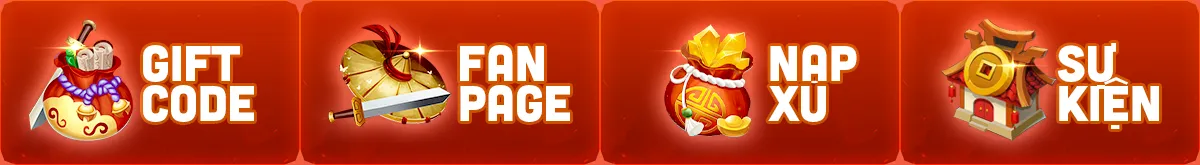
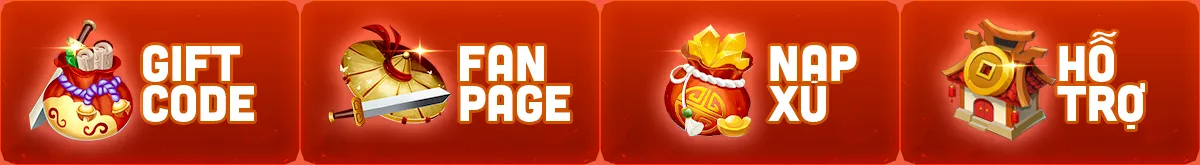
Update

Changed region(s): [[0.8633, 0.1818, 0.9867, 0.8182]]

diff --git a/Homepage/css/wstyle.min.css b/Homepage/css/wstyle.min.css
@@ -1,1 +1,1 @@
-body{background:url("../images/bg-small.webp") no-repeat center top;background-size:100vw auto;background-color:var(--w-bg-color);overflow-x:hidden}.wcontainer{width:90%;margin-left:auto;margin-right:auto;overflow:hidden;max-width:1170px}.page-wrapper{width:100%;max-width:1920px}.text-vgp{color:#f60}.bg-primary{background-color:var(--w-primary)}.bg-secondary{background-color:var(--w-secondary)}.text-primary{color:var(--w-primary)}.text-secondary{color:var(--w-secondary)}.w-image-block,.w-image-ratio{max-width:100%;display:block}.w-image-ratio{position:relative;overflow:hidden}.w-image-ratio>.content{position:absolute;top:50%;left:50%;width:100%;height:100%;transform:translate(-50%, -50%);display:flex;justify-content:center;align-items:center}.w-image-inline{max-width:100%;display:inline-block}.w-image-button>img,.w-image-ratio>img,.w-image-inline>img,.w-image-block>img{display:block;width:100%;height:auto}.w-image-button{max-width:100%;display:block;border:none;padding:0 !important}.layout{grid-template-areas:"download download button button button button button button" "download download newsboard newsboard newsboard support support support" "feature feature feature feature news news news news"}.block-download{grid-area:download}.block-button{grid-area:button}.block-support{grid-area:support}.newsboard{grid-area:newsboard}.block-news{grid-area:news}.block-feature{grid-area:feature}.block-18{background:rgba(0,0,0,0) url("../images/img-pg18.webp") no-repeat center bottom scroll;background-size:100% 100%;aspect-ratio:585/274}.block-18>div{display:grid;grid-template-columns:1fr 1fr;height:33%;width:100%}.block-18>div a{text-indent:-9999px;display:block}#block-001{background-size:100% auto}.block-download-inside{background:url("../images/block-download.webp") no-repeat scroll;background-size:cover;border-radius:1em;position:absolute;width:calc(100% - .69em);height:82%;bottom:0;color:#fff;z-index:0}.block-download-inside>.wrapper a{font-size:1.25em;display:flex;justify-content:start;align-items:center;line-height:1;padding:0 0 0 2.5em;transition:all .36s ease;border-top:1px solid var(--w-border)}.block-download-inside>.wrapper a:nth-child(1){border:none}.block-download-inside>.wrapper a:hover{filter:drop-shadow(0 0 1em rgb(255, 255, 255))}.block-button a{background:rgba(0,0,0,0) url("../images/btn-big-m.webp") no-repeat scroll;background-size:400% auto;text-indent:-9999px}.block-button a:hover{filter:brightness(125%)}a.giftcode{background-position:0% 0%}a.fanpage{background-position:33.33% 0%}a.napxu{background-position:66.66% 0%}a.sukien{background-position:100% 0%}.block-support{background:rgba(0,0,0,0) url("../images/block-support.webp") no-repeat scroll;background-size:cover}.block-support a{background:rgba(0,0,0,0) url("../images/btn-support.webp") no-repeat scroll;background-size:400% auto;text-indent:-9999px}.block-support a:hover{filter:brightness(125%)}a.tanthu{background-position:0% 0%}a.camnang{background-position:33.33% 0%}a.vip{background-position:66.66% 0%}a.hotro{background-position:100% 0%}.block-news{background:rgba(0,0,0,0) url("../images/news.webp") center center no-repeat;background-size:cover}.news-list ul li{line-height:2.8em;height:2.8em;width:100%;overflow:hidden;border-bottom:1px dotted var(--w-secondary)}.news-list ul li a{display:grid;grid-template-columns:1.8em auto;width:100%;height:100%;color:#414141;white-space:nowrap}.news-list ul li a::before{content:"";display:block;width:.5em;height:.5em;background-color:var(--w-secondary);margin:1.15em .5em;transform:rotate(45deg)}.news-list ul li a:hover{color:var(--w-secondary)}@media(min-width: 1200px){.news-list ul li{line-height:3.4em;height:3.4em}.news-list ul li a::before{margin:1.35em .5em}}.block-feature a{background:rgba(0,0,0,0) url("../images/btn-event.webp") no-repeat scroll;background-size:300% auto;text-indent:-9999px}a.landing{background-position:0% 0%}a.tonghopsukien{background-position:50% 0%}a.trailer{background-position:100% 0%}a.hotro{background-position:100% 0%}.footer{background-size:100% auto}.footer-menu a{display:block;font-size:1em;line-height:1;color:#fff;opacity:.5;padding:0em .75em;border-left:1px solid #ccc}.footer-menu a:hover{opacity:1}.footer-menu a:first-child{border:none}.btn-wnav{filter:drop-shadow(0em 0em 0.5em rgba(255, 255, 255, 0.5));fill:var(--w-nav)}.offcanvas{position:absolute;width:100%;height:100%;background-color:var(--w-backdrop-color);filter:drop-shadow(0em 0em 0.5em rgba(0, 0, 0, 0.5));-webkit-backdrop-filter:blur(0.5em);backdrop-filter:blur(0.5em);opacity:0;transition:opacity .36s ease}.offcanvas.show{z-index:9999;opacity:1}.offcanvas.hide{z-index:-1}.offcanvas-inside{background-color:rgba(20,20,20,.8);border-radius:2em;margin:1em 0 0 1em;overflow:hidden;transform:translateX(-50%);transition:transform .36s ease}.offcanvas.show .offcanvas-inside{transform:translateX(0)}.block-icon{padding:1.25em;background-color:var(--w-primary)}.block-menu ul{width:90%;line-height:3em;margin:0 auto}.block-menu ul li{color:#fff;border-bottom:1px solid #222}@media(min-width: 1024px){.block-support::after{content:"";width:1px;height:100%;position:absolute;top:0%;left:50%;transform:translateX(-50%);background-color:var(--w-border);display:block}.block-support::before{content:"";width:1px;height:100%;position:absolute;top:0%;left:50%;transform:translateX(-50%) rotate(90deg);background-color:var(--w-border);display:block}}.block-float{position:fixed;transition:transform .36s ease,height .36s ease;z-index:99}.block-float .link a{display:flex;justify-content:center;align-items:center;text-transform:uppercase}.block-float:not(.minimize){background:rgba(0,0,0,0) url("../images/float/float-bg.webp") no-repeat center center;background-size:100% 100%;top:50%;right:0;transform:translateY(-50%)}.block-float:not(.minimize) .block-mini{display:none}.block-float.minimize{padding:0;bottom:0;right:0;transform:translateY(0);aspect-ratio:auto}.block-float.minimize>*{display:none}.block-float.minimize .block-mini{display:block}.wmodal{position:fixed;width:100%;height:100%;background-color:var(--w-backdrop-color);top:0;right:0;z-index:9999;display:flex;justify-content:center;align-items:center;transition:opacity .36s ease}.wmodal-content{transform:scale(1);transition:transform .5s ease}.wmodal:not(.show){opacity:0;z-index:-1}.wmodal:not(.show) .wmodal-content{transform:scale(0.8)}.wmodal>.wmodal-content>.wrap{background-color:var(--w-popup-color);border-radius:1em;overflow:hidden}.button-prev,.button-next{position:absolute;transform:translateY(-50%);z-index:100;opacity:.8}.button-prev>img,.button-next>img{width:100%;height:auto}@media(min-width: 1024px){body{background:var(--w-bg-color) url("../images/bg-footer.webp") no-repeat center bottom fixed;background-size:100vw auto;font-size:.8333vw}.page-wrapper{background:rgba(0,0,0,0) url("../images/bg-big.webp") no-repeat center top scroll;background-size:100% auto}.wcontainer{width:61%}#block-002{background:none}}.offcanvas{position:absolute;top:0;left:0;width:100%;height:100%;z-index:5}.offcanvas{position:absolute;width:100%;height:100%;background-color:var(--w-backdrop-color);opacity:1;transition:opacity .36s ease}.offcanvas-content{background-color:var(--w-offcanvas);opacity:1;transition:all .36s ease;overflow:hidden;height:100vh;filter:drop-shadow(0em 0em 0.5em rgba(0, 0, 0, 0.5))}.offcanvas-content>.icon{padding:1.5em;background-color:var(--w-primary);overflow:hidden;position:relative}.offcanvas-content>.icon>img{z-index:2;position:relative}.offcanvas-content>.icon::after{content:"";display:block;position:absolute;top:0;left:0;width:100%;height:100%;background:var(--w-primary) url("../images/bg-sm.jpg") no-repeat top center;background-size:cover;opacity:.3;z-index:0}.offcanvas-content .link a{display:flex;justify-content:center;align-items:center;border-bottom:dotted #ccc 1px}.offcanvas:not(.show){opacity:0;z-index:-1}.offcanvas:not(.show) .offcanvas-content{opacity:0;margin-left:-50%}.btn-login-vgp{background-color:var(--w-primary);border-radius:100em}.btn-login-vgp span.content{width:0;margin:0;transition:width .36s ease;overflow:hidden;white-space:nowrap}.btn-login-vgp:hover span.content{width:-moz-fit-content;width:fit-content;margin:0 .5em}.w-accordion-button{background:rgba(0,0,0,0) url("../images/character/accordion-button.png.jpg") no-repeat scroll;background-size:400% auto;width:6.8376%}.w-accordion-button[data-no="01"]{background-position:0% 0%}.w-accordion-button[data-no="02"]{background-position:33.33% 0%}.w-accordion-button[data-no="03"]{background-position:66.66% 0%}.w-accordion-button[data-no="04"]{background-position:100% 0%}.w-accordion .w-accordion-slide{transition:width .36s ease;overflow:hidden}.w-accordion .w-accordion-slide img{height:100%;width:auto;max-width:9999% !important}.w-accordion .w-accordion-slide:not(.active){width:0%}.w-accordion .w-accordion-slide.active{width:72.64%;height:100%}.animate__loop{animation-duration:2s;animation-timing-function:ease;animation-iteration-count:infinite}.animate__glow{animation-name:glow}@keyframes glow{0%{filter:brightness(1)}50%{filter:brightness(1.3)}100%{filter:brightness(1)}}.animate__bling{animation-name:bling}@keyframes bling{0%{filter:brightness(1);transform:scale(1)}50%{filter:brightness(1.3);transform:scale(1.05)}100%{filter:brightness(1);transform:scale(1)}}.animate__blingbling{animation-name:blingbling}@keyframes blingbling{0%{filter:brightness(1);transform:translateY(0)}50%{filter:brightness(1.3);transform:translateY(2%)}100%{filter:brightness(1);transform:translateY(0)}}.animate__laploe{animation-name:laploe}@keyframes laploe{0%{filter:brightness(1);opacity:1;transform:scale(1)}50%{filter:brightness(1.2);opacity:.5;transform:scale(0.95) rotate(3deg)}100%{filter:brightness(1);opacity:1;transform:scale(1)}}.animte__updown{animation-name:updown}@keyframes updown{0%{transform:translateY(0)}50%{transform:translateY(5%)}100%{transform:translateY(0)}}.e-btn-click{transition:all .36s ease}.e-btn-click:active{transform:scale(0.98)}.e-btn-hover-glow{transition:all .36s ease}.e-btn-hover-glow:hover,.w-image-button:hover{transform:scale(1.01);filter:brightness(1.1) drop-shadow(0 0 2em rgba(255, 255, 255, 0.15))}.character-slide{background:rgba(0,0,0,0) url("../images/slide/block-char.webp") no-repeat center bottom scroll;background-size:100% 100%;aspect-ratio:1170/600;border-radius:2em;box-shadow:0 0 2em rgba(0,0,0,.25);transform:scale(0.95)}.character-thumb-slide .swiper-slide:not(.swiper-slide-thumb-active) img{opacity:.5}.feature-slide .swiper-slide{border-radius:1em}.feature-slide .swiper-slide:not(.swiper-slide-active){background-color:#fff}.feature-slide .swiper-slide:not(.swiper-slide-active) img{opacity:.5}.feature-slide .button-prev,.feature-slide .button-next{position:absolute;top:50%;width:4em;transform:translateY(-50%)}.feature-slide .button-prev{left:.5em}.feature-slide .button-next{right:.5em}@media(min-width: 1024px){.feature-slide .button-prev,.feature-slide .button-next{width:6em}}#block-single .body-content{grid-area:content;background-color:var(--w-bodycontent);overflow:auto}#block-single .body-content .content p{line-height:1.75;margin:1em 0}#block-single .layout{grid-template-areas:"download download button button button button button button" "download download content content content content content content" "feature feature feature feature support support support support"}@media(min-width: 1024px){#block-single .block-download{max-height:33em}}/*# sourceMappingURL=wstyle.min.css.map */
+body{background:url("../images/bg-small.webp") no-repeat center top;background-size:100vw auto;background-color:var(--w-bg-color);overflow-x:hidden}.wcontainer{width:90%;margin-left:auto;margin-right:auto;overflow:hidden;max-width:1170px}.page-wrapper{width:100%;max-width:1920px}.text-vgp{color:#f60}.bg-primary{background-color:var(--w-primary)}.bg-secondary{background-color:var(--w-secondary)}.text-primary{color:var(--w-primary)}.text-secondary{color:var(--w-secondary)}.w-image-block,.w-image-ratio{max-width:100%;display:block}.w-image-ratio{position:relative;overflow:hidden}.w-image-ratio>.content{position:absolute;top:50%;left:50%;width:100%;height:100%;transform:translate(-50%, -50%);display:flex;justify-content:center;align-items:center}.w-image-inline{max-width:100%;display:inline-block}.w-image-button>img,.w-image-ratio>img,.w-image-inline>img,.w-image-block>img{display:block;width:100%;height:auto}.w-image-button{max-width:100%;display:block;border:none;padding:0 !important}.layout{grid-template-areas:"download download button button button button button button" "download download newsboard newsboard newsboard support support support" "feature feature feature feature news news news news"}.block-download{grid-area:download}.block-button{grid-area:button}.block-support{grid-area:support}.newsboard{grid-area:newsboard}.block-news{grid-area:news}.block-feature{grid-area:feature}.block-18{background:rgba(0,0,0,0) url("../images/img-pg18.webp") no-repeat center bottom scroll;background-size:100% 100%;aspect-ratio:585/274}.block-18>div{display:grid;grid-template-columns:1fr 1fr;height:33%;width:100%}.block-18>div a{text-indent:-9999px;display:block}#block-001{background-size:100% auto}.block-download-inside{background:url("../images/block-download.webp") no-repeat scroll;background-size:cover;border-radius:1em;position:absolute;width:calc(100% - .69em);height:82%;bottom:0;color:#fff;z-index:0}.block-download-inside>.wrapper a{font-size:1.25em;display:flex;justify-content:start;align-items:center;line-height:1;padding:0 0 0 2.5em;transition:all .36s ease;border-top:1px solid var(--w-border)}.block-download-inside>.wrapper a:nth-child(1){border:none}.block-download-inside>.wrapper a:hover{filter:drop-shadow(0 0 1em rgb(255, 255, 255))}.block-button a{background:rgba(0,0,0,0) url("../images/btn-big-m.webp") no-repeat scroll;background-size:400% auto;text-indent:-9999px}.block-button a:hover{filter:brightness(125%)}a.giftcode{background-position:0% 0%}a.fanpage{background-position:33.33% 0%}a.napxu{background-position:66.66% 0%}a.sukien{background-position:100% 0%}.block-support{background:rgba(0,0,0,0) url("../images/block-support.webp") no-repeat scroll;background-size:cover}.block-support a{background:rgba(0,0,0,0) url("../images/btn-support.webp") no-repeat scroll;background-size:400% auto;text-indent:-9999px}.block-support a:hover{filter:brightness(125%)}a.tanthu{background-position:0% 0%}a.camnang{background-position:33.33% 0%}a.vip{background-position:66.66% 0%}a.hotro{background-position:100% 0%}.block-news{background:rgba(0,0,0,0) url("../images/news.webp") center center no-repeat;background-size:cover}.news-list ul li{line-height:2.8em;height:2.8em;width:100%;overflow:hidden;border-bottom:1px dotted var(--w-secondary)}.news-list ul li a{display:grid;grid-template-columns:1.8em auto;width:100%;height:100%;color:#414141;white-space:nowrap}.news-list ul li a::before{content:"";display:block;width:.5em;height:.5em;background-color:var(--w-secondary);margin:1.15em .5em;transform:rotate(45deg)}.news-list ul li a:hover{color:var(--w-secondary)}@media(min-width: 1200px){.news-list ul li{line-height:3.4em;height:3.4em}.news-list ul li a::before{margin:1.35em .5em}}.block-feature a{background:rgba(0,0,0,0) url("../images/btn-event.webp") no-repeat scroll;background-size:300% auto;text-indent:-9999px}a.landing{background-position:0% 0%}a.tonghopsukien{background-position:50% 0%}a.trailer{background-position:100% 0%}a.hotro{background-position:100% 0%}.footer{background-size:100% auto}.footer-menu a{display:block;font-size:1em;line-height:1;color:#fff;opacity:.5;padding:0em .75em;border-left:1px solid #ccc}.footer-menu a:hover{opacity:1}.footer-menu a:first-child{border:none}.btn-wnav{filter:drop-shadow(0em 0em 0.5em rgba(255, 255, 255, 0.5));fill:var(--w-nav)}.offcanvas{position:absolute;width:100%;height:100%;background-color:var(--w-backdrop-color);filter:drop-shadow(0em 0em 0.5em rgba(0, 0, 0, 0.5));-webkit-backdrop-filter:blur(0.5em);backdrop-filter:blur(0.5em);opacity:0;transition:opacity .36s ease}.offcanvas.show{z-index:9999;opacity:1}.offcanvas.hide{z-index:-1}.offcanvas-inside{background-color:rgba(20,20,20,.8);border-radius:2em;margin:1em 0 0 1em;overflow:hidden;transform:translateX(-50%);transition:transform .36s ease}.offcanvas.show .offcanvas-inside{transform:translateX(0)}.block-icon{padding:1.25em;background-color:var(--w-primary)}.block-menu ul{width:90%;line-height:3em;margin:0 auto}.block-menu ul li{color:#fff;border-bottom:1px solid #222}.block-support::after{content:"";width:1px;height:100%;position:absolute;top:0%;left:50%;transform:translateX(-50%);background-color:var(--w-border);display:block}.block-support::before{content:"";width:1px;height:100%;position:absolute;top:0%;left:50%;transform:translateX(-50%) rotate(90deg);background-color:var(--w-border);display:block}.block-float{position:fixed;transition:transform .36s ease,height .36s ease;z-index:99}.block-float .link a{display:flex;justify-content:center;align-items:center;text-transform:uppercase}.block-float:not(.minimize){background:rgba(0,0,0,0) url("../images/float/float-bg.webp") no-repeat center center;background-size:100% 100%;top:50%;right:0;transform:translateY(-50%)}.block-float:not(.minimize) .block-mini{display:none}.block-float.minimize{padding:0;bottom:0;right:0;transform:translateY(0);aspect-ratio:auto}.block-float.minimize>*{display:none}.block-float.minimize .block-mini{display:block}.wmodal{position:fixed;width:100%;height:100%;background-color:var(--w-backdrop-color);top:0;right:0;z-index:9999;display:flex;justify-content:center;align-items:center;transition:opacity .36s ease}.wmodal-content{transform:scale(1);transition:transform .5s ease}.wmodal:not(.show){opacity:0;z-index:-1}.wmodal:not(.show) .wmodal-content{transform:scale(0.8)}.wmodal>.wmodal-content>.wrap{background-color:var(--w-popup-color);border-radius:1em;overflow:hidden}.button-prev,.button-next{position:absolute;transform:translateY(-50%);z-index:100;opacity:.8}.button-prev>img,.button-next>img{width:100%;height:auto}@media(min-width: 1024px){body{background:var(--w-bg-color) url("../images/bg-footer.webp") no-repeat center bottom fixed;background-size:100vw auto;font-size:.8333vw}.page-wrapper{background:rgba(0,0,0,0) url("../images/bg-big.webp") no-repeat center top scroll;background-size:100% auto}.wcontainer{width:61%}#block-002{background:none}}.offcanvas{position:absolute;top:0;left:0;width:100%;height:100%;z-index:5}.offcanvas{position:absolute;width:100%;height:100%;background-color:var(--w-backdrop-color);opacity:1;transition:opacity .36s ease}.offcanvas-content{background-color:var(--w-offcanvas);opacity:1;transition:all .36s ease;overflow:hidden;height:100vh;filter:drop-shadow(0em 0em 0.5em rgba(0, 0, 0, 0.5))}.offcanvas-content>.icon{padding:1.5em;background-color:var(--w-primary);overflow:hidden;position:relative}.offcanvas-content>.icon>img{z-index:2;position:relative}.offcanvas-content>.icon::after{content:"";display:block;position:absolute;top:0;left:0;width:100%;height:100%;background:var(--w-primary) url("../images/bg-sm.jpg") no-repeat top center;background-size:cover;opacity:.3;z-index:0}.offcanvas-content .link a{display:flex;justify-content:center;align-items:center;border-bottom:dotted #ccc 1px}.offcanvas:not(.show){opacity:0;z-index:-1}.offcanvas:not(.show) .offcanvas-content{opacity:0;margin-left:-50%}.btn-login-vgp{background-color:var(--w-primary);border-radius:100em}.btn-login-vgp span.content{width:0;margin:0;transition:width .36s ease;overflow:hidden;white-space:nowrap}.btn-login-vgp:hover span.content{width:-moz-fit-content;width:fit-content;margin:0 .5em}.w-accordion-button{background:rgba(0,0,0,0) url("../images/character/accordion-button.png.jpg") no-repeat scroll;background-size:400% auto;width:6.8376%}.w-accordion-button[data-no="01"]{background-position:0% 0%}.w-accordion-button[data-no="02"]{background-position:33.33% 0%}.w-accordion-button[data-no="03"]{background-position:66.66% 0%}.w-accordion-button[data-no="04"]{background-position:100% 0%}.w-accordion .w-accordion-slide{transition:width .36s ease;overflow:hidden}.w-accordion .w-accordion-slide img{height:100%;width:auto;max-width:9999% !important}.w-accordion .w-accordion-slide:not(.active){width:0%}.w-accordion .w-accordion-slide.active{width:72.64%;height:100%}.animate__loop{animation-duration:2s;animation-timing-function:ease;animation-iteration-count:infinite}.animate__glow{animation-name:glow}@keyframes glow{0%{filter:brightness(1)}50%{filter:brightness(1.3)}100%{filter:brightness(1)}}.animate__bling{animation-name:bling}@keyframes bling{0%{filter:brightness(1);transform:scale(1)}50%{filter:brightness(1.3);transform:scale(1.05)}100%{filter:brightness(1);transform:scale(1)}}.animate__blingbling{animation-name:blingbling}@keyframes blingbling{0%{filter:brightness(1);transform:translateY(0)}50%{filter:brightness(1.3);transform:translateY(2%)}100%{filter:brightness(1);transform:translateY(0)}}.animate__laploe{animation-name:laploe}@keyframes laploe{0%{filter:brightness(1);opacity:1;transform:scale(1)}50%{filter:brightness(1.2);opacity:.5;transform:scale(0.95) rotate(3deg)}100%{filter:brightness(1);opacity:1;transform:scale(1)}}.animte__updown{animation-name:updown}@keyframes updown{0%{transform:translateY(0)}50%{transform:translateY(5%)}100%{transform:translateY(0)}}.e-btn-click{transition:all .36s ease}.e-btn-click:active{transform:scale(0.98)}.e-btn-hover-glow{transition:all .36s ease}.e-btn-hover-glow:hover,.w-image-button:hover{transform:scale(1.01);filter:brightness(1.1) drop-shadow(0 0 2em rgba(255, 255, 255, 0.15))}.character-slide{background:rgba(0,0,0,0) url("../images/slide/block-char.webp") no-repeat center bottom scroll;background-size:100% 100%;aspect-ratio:1170/600;border-radius:2em;box-shadow:0 0 2em rgba(0,0,0,.25);transform:scale(0.95)}.character-thumb-slide .swiper-slide:not(.swiper-slide-thumb-active) img{opacity:.5}.feature-slide .swiper-slide{border-radius:1em}.feature-slide .swiper-slide:not(.swiper-slide-active){background-color:#fff}.feature-slide .swiper-slide:not(.swiper-slide-active) img{opacity:.5}.feature-slide .button-prev,.feature-slide .button-next{position:absolute;top:50%;width:4em;transform:translateY(-50%)}.feature-slide .button-prev{left:.5em}.feature-slide .button-next{right:.5em}@media(min-width: 1024px){.feature-slide .button-prev,.feature-slide .button-next{width:6em}}#block-single .body-content{grid-area:content;background-color:var(--w-bodycontent);overflow:auto}#block-single .body-content .content p{line-height:1.75;margin:1em 0}#block-single .layout{grid-template-areas:"download download button button button button button button" "download download content content content content content content" "feature feature feature feature support support support support"}@media(min-width: 1024px){#block-single .block-download{max-height:33em}}/*# sourceMappingURL=wstyle.min.css.map */

diff --git a/Homepage/wstyle/_style.scss b/Homepage/wstyle/_style.scss
@@ -337,30 +337,30 @@ a.hotro {
   border-bottom: 1px solid #222;
 }
 
-@media (min-width: 1024px) {
-  .block-support::after {
-    content: "";
-    width: 1px;
-    height: 100%;
-    position: absolute;
-    top: 0%;
-    left: 50%;
-    transform: translateX(-50%);
-    background-color: var(--w-border);
-    display: block;
-  }
-  .block-support::before {
-    content: "";
-    width: 1px;
-    height: 100%;
-    position: absolute;
-    top: 0%;
-    left: 50%;
-    transform: translateX(-50%) rotate(90deg);
-    background-color: var(--w-border);
-    display: block;
-  }
+/* block support border split */
+.block-support::after {
+  content: "";
+  width: 1px;
+  height: 100%;
+  position: absolute;
+  top: 0%;
+  left: 50%;
+  transform: translateX(-50%);
+  background-color: var(--w-border);
+  display: block;
 }
+.block-support::before {
+  content: "";
+  width: 1px;
+  height: 100%;
+  position: absolute;
+  top: 0%;
+  left: 50%;
+  transform: translateX(-50%) rotate(90deg);
+  background-color: var(--w-border);
+  display: block;
+}
+
 .block-float {
   position: fixed;
   transition: transform 0.36s ease, height 0.36s ease;

diff --git a/Homepage/output.css b/Homepage/output.css
@@ -2526,7 +2526,7 @@ Ensure the default browser behavior of the `hidden` attribute.
   font-family: "Lexend", sans-serif;
   color: #414141;
   --w-primary: #850d7f;
-  --w-secondary: rgb(21, 179, 48);
+  --w-secondary: #900;
   --w-active: #009999;
   --w-bg-color: #fff;
   --w-offcanvas: #fff;
